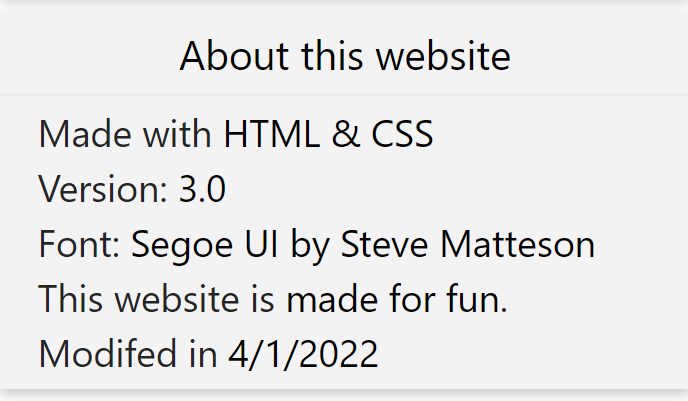
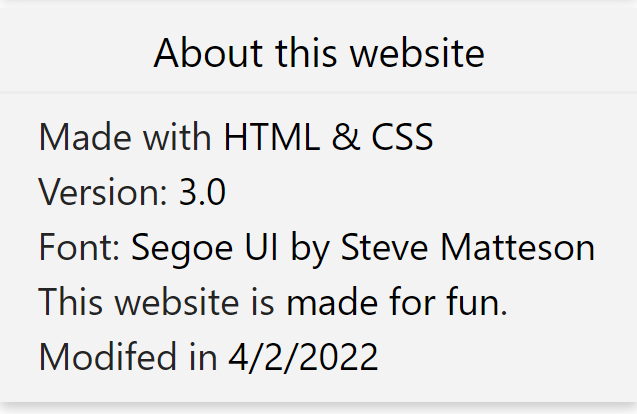
Version 3.0 small update
fixed the hover padding for mobile devices, added the latest tweet and updated about this website texts padding

diff --git a/index.html b/index.html
@@ -78,10 +78,10 @@
             </article>
             <article class="article5" id="tweets">
                 <h2 id="latestmargin">Latest 4 tweets</h2>
-                <a class="articlelink" href="https://twitter.com/Bero_Sato/status/1509932156981813278">Introducing... A new redesign of my website, including the classic style!</a>
+                <a class="articlelink" href="https://twitter.com/Bero_Sato/status/1510167690895364097">The all new redesign is now available! ...</a>
+                <a class="articlelink" href="https://twitter.com/Bero_Sato/status/1509932156981813278">Introducing... A new redesign of my website, including the classic style! ...</a>
                 <a class="articlelink" href="https://twitter.com/Bero_Sato/status/1506686557360734208">Finally I can try good insider dev features!</a>
-                <a class="articlelink" href="https://twitter.com/Bero_Sato/status/1501109713622155270">Nice balloons</a>
-                <a class="articlelink" id="articlelink4" href="https://twitter.com/Bero_Sato/status/1500069568974397444">I thought we will be going to see a new HTC phone in late 2022 but looks like we will already see it in April ...</a>
+                <a class="articlelink" id="articlelink4" href="https://twitter.com/Bero_Sato/status/1501109713622155270">Nice balloons</a>
             </article>
             <article class="article6" id="about">
                 <h2>About this website</h2>
@@ -89,7 +89,7 @@
                 <p>Version: <b id="btxt">3.0</b></p>
                 <p>Font: <b id="btxt">Segoe UI by Steve Matteson</b></p>
                 <p>This website is <b id="btxt">made for fun</b>.</p>
-                <p>Modifed in <b id="btxt">4/2/2022</b></p>
+                <p id="modtxt">Modifed in <b id="btxt">4/2/2022</b></p>
             </article>
         </section>
     </main>

diff --git a/classic.html b/classic.html
@@ -76,10 +76,10 @@
             </article>
             <article class="article5" id="tweets">
                 <h2 id="latestmargin">Latest 4 tweets:</h2>
-                <a class="tweetlink" href="https://twitter.com/Bero_Sato/status/1509932156981813278">Introducing... A new redesign of my website, including the classic style!</a>
+                <a href="https://twitter.com/Bero_Sato/status/1510167690895364097">The all new redesign is now available! ...</a>
+                <a class="tweetlink" href="https://twitter.com/Bero_Sato/status/1509932156981813278">Introducing... A new redesign of my website, including the classic style! ...</a>
                 <a class="tweetlink" href="https://twitter.com/Bero_Sato/status/1506686557360734208">Finally I can try good insider dev features!</a>
-                <a class="tweetlink" href="https://twitter.com/Bero_Sato/status/1501109713622155270">Nice balloons</a>
-                <a class="tweetlink" id="tweetlink4" href="https://twitter.com/Bero_Sato/status/1500069568974397444">I thought we will be going to see a new HTC phone in late 2022 but looks like we will already see it in April ...</a>            
+                <a class="tweetlink" id="tweetlink4" href="https://twitter.com/Bero_Sato/status/1501109713622155270">Nice balloons</a>           
             </article>
             <details class="detailsart">
                 <summary><b>About this website</b></summary>

diff --git a/style.css b/style.css
@@ -277,6 +277,14 @@ div {
     padding-bottom: 4px;
 }
 
+#title1 {
+    padding-top: 4px;
+}
+
+#modtxt {
+    padding-bottom: 10px;
+}
+
 h2 {
     margin-bottom: 7px;
     padding-bottom: 9px;
@@ -481,7 +489,7 @@ em {
     .alink {
         font-size: 18px;
         padding-top: 16px;
-        padding-bottom: 12px;
+        padding-bottom: 12.3px;
     }
 
     .ellink {

diff --git a/style2.css b/style2.css
@@ -364,7 +364,7 @@ em {
     .alink {
         font-size: 18px;
         padding-top: 16px;
-        padding-bottom: 12.8px;
+        padding-bottom: 13px;
     }
 }
 
